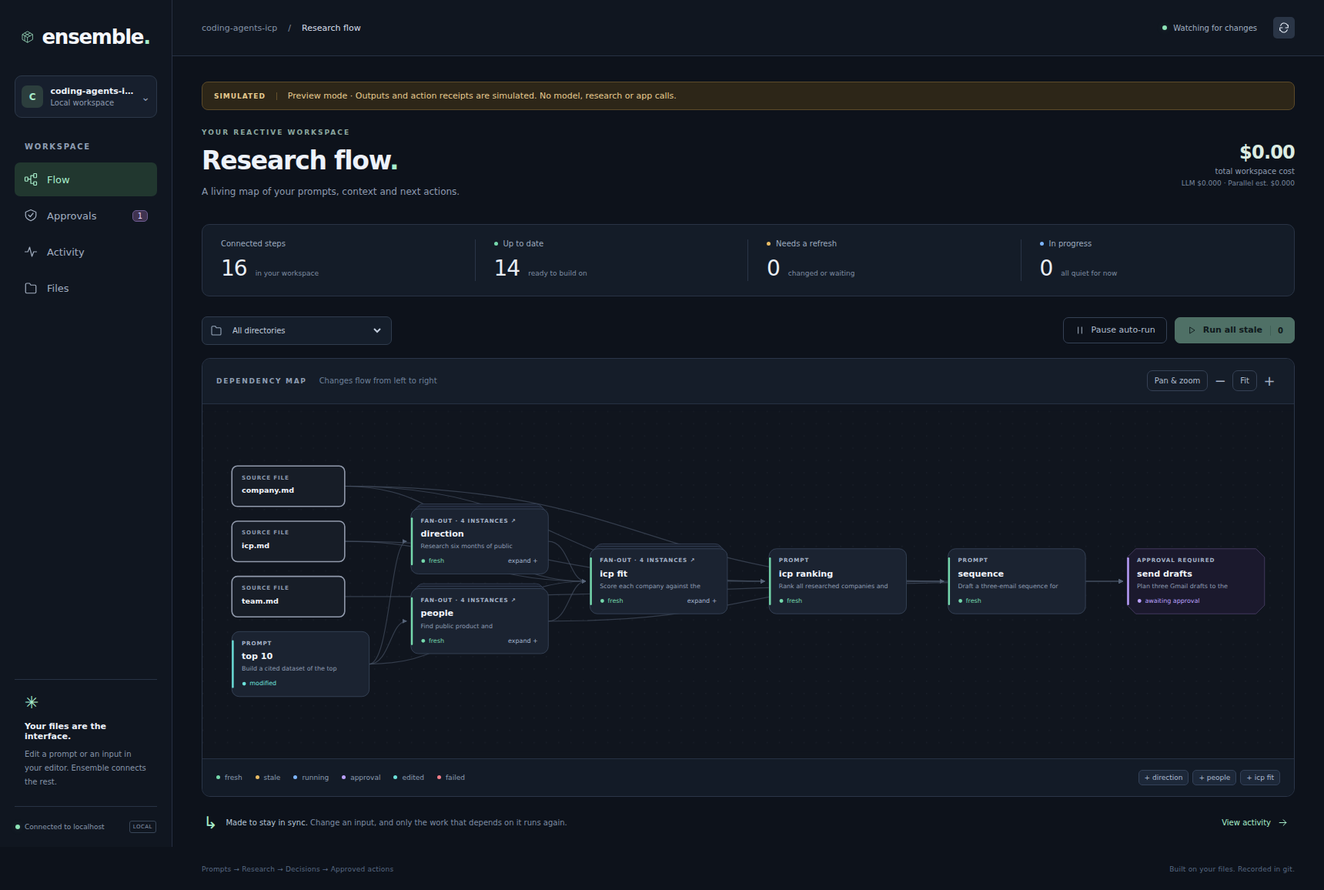
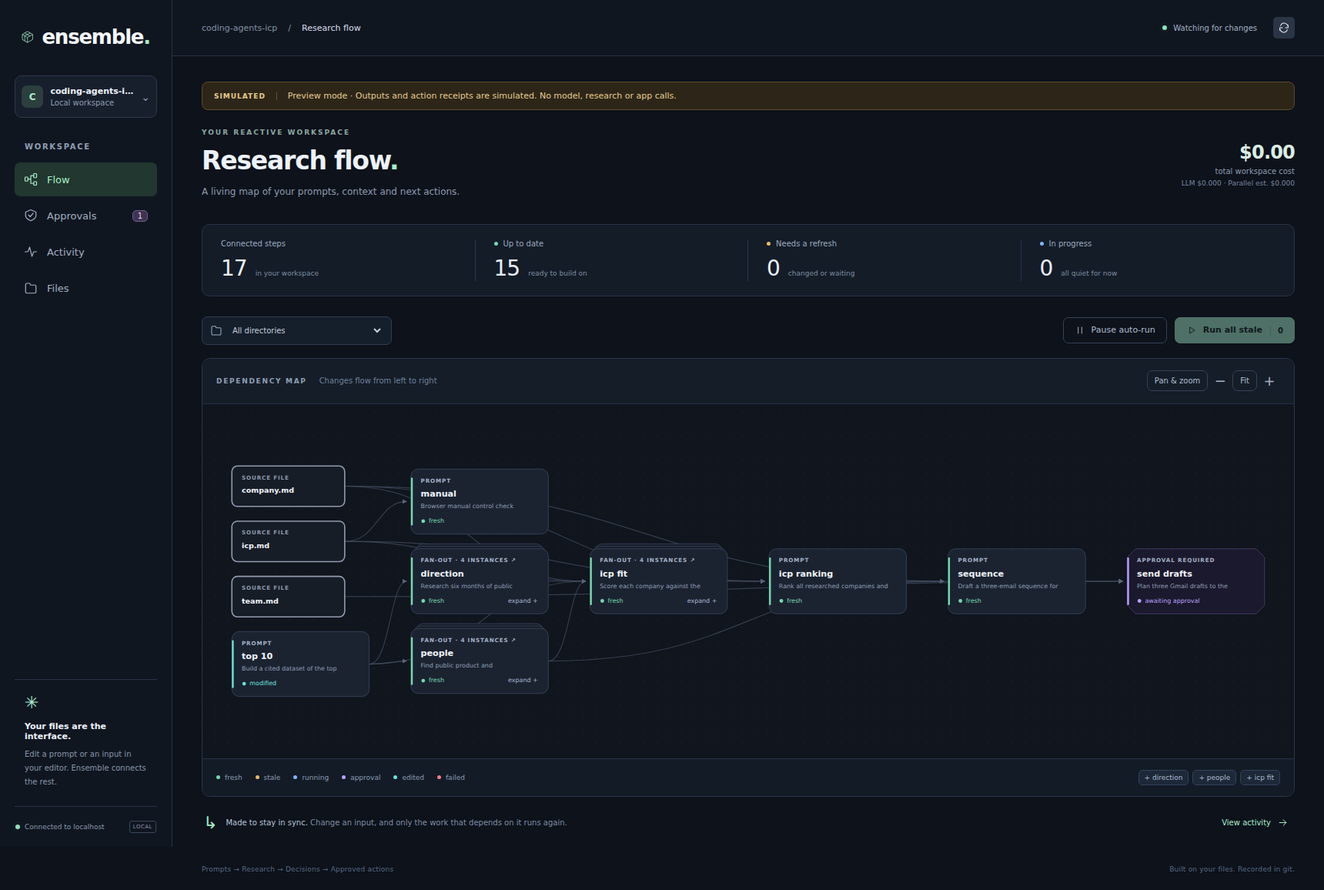
fix: complete clean-clone setup and workspace controls

Changed region(s): [[0.3081, 0.5294, 0.4006, 0.7785], [0.3698, 0.2803, 0.4006, 0.3114], [0.1541, 0.2803, 0.1849, 0.3114]]

diff --git a/ui/style.css b/ui/style.css
@@ -2,3 +2,5 @@
 :root{--surface:#151d29;--text:#edf2fa;--accent:#a7edca;--subtle:#101720}
 .button.selected{background:#213c32;color:#b8edce;border-color:#87c5a4}.chip-error{background:#3e2631;color:#f3adb9;border-color:#754452}.drawer .diff-add{color:#98ddb3;background:#19372b}.drawer .diff-remove{color:#ecadb6;background:#3e2631}.json-editor textarea{background:#0f1722!important;border-color:#40506a!important;color:#d8e4f5!important}.reject-form{background:#2b2029!important}.reject-form input{background:#151b28;color:#e4edf9;border-color:#764b58!important}.approval-card .chip{background:#302b46!important;color:#c6b2f4!important}.count-badge{background:#352d4b!important;color:#c7b1f5!important}.empty-orbit{background:#1d3329!important;color:#a7d6b8!important;border-color:#3d5a49!important}
 :root{font-family:Inter,ui-sans-serif,system-ui,-apple-system,BlinkMacSystemFont,"Segoe UI",sans-serif;color:#edf2fa;background:#0d121b;font-synthesis:none;font-weight:400;font-size:14px;--mint:#a7edca;--muted:#8e9bb0;--border:#293345;--panel:#141c28;--amber:#e9bc64;--purple:#bba1ff;--red:#f47e89;--blue:#7eb6ff}*{box-sizing:border-box}body{margin:0}button,input,select,textarea{font:inherit}button,a,select{touch-action:manipulation}button{cursor:pointer}button:disabled{cursor:not-allowed;opacity:.45}a{color:var(--mint);text-decoration:none}a:hover{text-decoration:underline}button:focus-visible,a:focus-visible,select:focus-visible,input:focus-visible,[tabindex]:focus-visible{outline:2px solid var(--mint);outline-offset:3px}button svg{flex-shrink:0}button{transition:background .15s,border-color .15s,opacity .15s}.app-shell{display:flex;min-height:100vh}.sidebar{width:224px;flex-shrink:0;background:#101620;border-right:1px solid #273042;display:flex;flex-direction:column;padding:32px 19px 18px;position:fixed;inset:0 auto 0 0;z-index:10}.brand{display:flex;gap:11px;align-items:center;color:#f4f7fb;font-size:26px;font-weight:680;letter-spacing:-1.2px;padding:0 9px}.brand:hover{text-decoration:none}.brand-dot{color:var(--mint)}.workspace-switch{display:flex;align-items:center;gap:9px;margin:34px 0 32px;padding:12px 8px;border:1px solid #2c3849;border-radius:9px;background:#171f2d}.workspace-avatar{width:29px;height:29px;display:grid;place-items:center;border-radius:7px;background:#2c3e3d;color:var(--mint);font-size:12px;font-weight:700}.workspace-switch div{min-width:0;display:flex;flex-direction:column;gap:3px}.workspace-switch strong{font-size:11px;max-width:124px;white-space:nowrap;overflow:hidden;text-overflow:ellipsis}.workspace-switch div>span{font-size:10px;color:var(--muted)}.workspace-chevron{margin-left:auto;color:var(--muted)}.nav-label,.eyebrow{font-size:10px;letter-spacing:1.7px;font-weight:650;color:#8f9eb3}.nav-label{padding:0 13px;margin-bottom:12px}.nav-item{background:none;border:0;border-radius:7px;width:100%;padding:13px 12px;margin:3px 0;display:flex;align-items:center;gap:12px;color:#a2aec0;font-size:13px;text-align:left}.nav-item:hover{background:#1b2635;color:#e6edf9}.nav-item.active{color:var(--mint);background:#21372f}.nav-count{margin-left:auto;border:1px solid #6b5b91;background:#403350;color:#e3d6ff;padding:1px 6px;border-radius:5px;font-size:10px}.sidebar-bottom{margin-top:auto;padding-top:40px}.workspace-note{padding:17px 13px 22px;border-top:1px solid #283344;border-bottom:1px solid #283344}.small-spark{color:var(--mint);font-size:22px}.workspace-note strong{display:block;margin:12px 0 8px;font-size:11px;font-weight:600}.workspace-note p{font-size:10px;line-height:1.8;color:#8795a9;margin:0}.connection{display:flex;align-items:center;gap:6px;font-size:9px;color:#8897ac;padding:18px 1px 0}.connection i,.watcher-state i{width:6px;height:6px;border-radius:50%;background:#bba46d}.connection i.connected,.watcher-state i{background:#8de3b6;box-shadow:0 0 9px #8de3b62b}.local-tag{margin-left:auto;font-size:7px;border:1px solid #394658;border-radius:3px;padding:3px 4px;letter-spacing:.5px}.main-shell{margin-left:224px;min-width:0;width:calc(100% - 224px);display:flex;flex-direction:column}.topbar{height:73px;border-bottom:1px solid #273144;display:flex;align-items:center;justify-content:space-between;padding:0 38px;background:#101620}.breadcrumb{display:flex;gap:14px;font-size:11px;color:#8391a6;align-items:center}.breadcrumb strong{font-weight:500;color:#d7dfeb}.topbar-right{display:flex;align-items:center;gap:21px}.watcher-state{display:flex;align-items:center;gap:8px;font-size:10px;color:#a2b0c2}.watcher-state.paused i{background:#e9bc64}.page-content{padding:33px 38px 15px;flex:1}.page-heading{display:flex;justify-content:space-between;gap:20px;align-items:center;margin:8px 0 30px}.page-heading .eyebrow{font-size:9px;letter-spacing:2px;color:#8ba79f}h1{font-size:33px;line-height:1.25;font-weight:600;letter-spacing:-1.2px;margin:11px 0 10px}.heading-dot{color:var(--mint)}.page-heading p{margin:0;color:var(--muted);font-size:12px;line-height:1.8}.heading-meta{text-align:right;display:flex;flex-direction:column;gap:5px;color:#8e9bb0;font-size:10px;flex-shrink:0}.cost-amount{font-size:24px;color:#dcece2;font-weight:550;letter-spacing:-.8px}.heading-meta small{font-size:9px;color:#77879e}.simulation-banner{display:flex;gap:14px;align-items:center;border:1px solid #5c4a29;border-radius:8px;padding:11px 15px;background:#2d2618;margin:0 0 24px;color:#e6ca8f;font-size:11px}.simulation-banner>span{font-size:9px;letter-spacing:1px;font-weight:700;border-right:1px solid #66512c;padding-right:14px}.simulation-banner p{margin:0}.stats-row{display:grid;grid-template-columns:repeat(4,1fr);border:1px solid var(--border);background:#141c28;border-radius:10px;padding:19px 0;margin-bottom:26px}.stat{padding:0 24px;border-right:1px solid #2a3547}.stat:last-child{border-right:0}.stat>span{font-size:10px;color:#9caabf;display:flex;align-items:center;gap:7px}.stat strong{display:flex;gap:11px;align-items:baseline;font-size:28px;font-weight:500;color:#e9eef6;margin-top:10px;letter-spacing:-1px}.stat small{font-size:9px;color:#7e8ca2;letter-spacing:0;font-weight:400}.dot{width:5px;height:5px;border-radius:50%;display:inline-block}.dot-green{background:#75d9ac}.dot-amber{background:#e9bc64}.dot-blue{background:#7eb6ff}.flow-toolbar{display:flex;align-items:center;justify-content:space-between;margin-bottom:17px;gap:15px}.directory-filter{border:1px solid #303c4e;border-radius:7px;display:flex;align-items:center;gap:9px;padding:0 10px;background:#151e2b;color:#99a9bd}.directory-filter select{color:#c3cede;background:transparent;border:0;outline:0;font-size:10px;height:35px;max-width:280px;padding-right:15px}.directory-filter option{background:#151e2b}.toolbar-actions{display:flex;gap:10px}.button{border:1px solid #354357;border-radius:7px;padding:9px 14px;background:#1d2939;color:#d4dfed;display:inline-flex;align-items:center;justify-content:center;gap:8px;font-size:11px;font-weight:500;line-height:1.3;text-decoration:none}.button:hover{background:#26364a;text-decoration:none}.button-primary{background:var(--mint);border-color:var(--mint);color:#13261e;font-weight:650}.button-primary:hover{background:#b8f3d7;border-color:#b8f3d7}.button-subtle{background:transparent;color:#b0bdcf;border-color:#354155}.button-subtle:hover{background:#1b2737}.button-small{font-size:10px;padding:6px 9px}.button-danger{background:#542b34;border-color:#925362;color:#ffd0d4}.button-count{border-left:1px solid #5d9e7c7d;padding-left:9px;margin-left:2px;font-size:10px}.icon-button{display:inline-flex;align-items:center;justify-content:center;border:0;background:none;color:#a5b2c6;width:28px;height:28px;border-radius:5px;font-size:18px;padding:4px}.icon-button:hover{background:#2a3546;color:#edf3fc}.graph-panel{border:1px solid #2b3649;border-radius:11px;background:#10151e;overflow:hidden}.graph-panel-top{display:flex;align-items:center;justify-content:space-between;gap:15px;padding:15px 18px;border-bottom:1px solid #263143;background:#151d29}.graph-panel-top>div:first-child{display:flex;align-items:center;gap:16px}.graph-panel-top .eyebrow{font-size:9px}.graph-hint{color:#6f819a;font-size:10px}.graph-controls{display:flex;gap:2px;align-items:center}.graph-canvas{overflow:auto;max-height:72vh;min-height:425px;scrollbar-width:thin;scrollbar-color:#344154 #10151e}.graph-svg{display:block;min-height:425px}.graph-node{cursor:pointer;outline:none}.graph-node:hover>rect:last-of-type,.graph-node:hover>path{stroke:#a3b9d7;stroke-width:1.7}.graph-node:focus-visible>rect,.graph-node:focus-visible>path{stroke:#a7edca;stroke-width:2}.graph-state-running,.graph-state-executing{animation:running-glow 2.4s ease-in-out infinite}.graph-state-stale{animation:stale-wave .7s ease-out}.graph-running-dot{animation:pulse 1.3s ease-in-out infinite}.graph-edge-active{stroke-dasharray:6 5;animation:edge-flow 1.2s linear infinite}.graph-footer{border-top:1px solid #263143;padding:14px 18px;background:#131b27;display:flex;align-items:center;justify-content:space-between;gap:15px;flex-wrap:wrap}.graph-legend{display:flex;gap:17px;flex-wrap:wrap}.graph-legend span{display:flex;align-items:center;gap:6px;font-size:9px;color:#8b9bb1}.graph-legend i{display:block;width:5px;height:5px;border-radius:50%}.group-controls{display:flex;gap:5px;flex-wrap:wrap}.group-toggle{background:#1d2839;border:1px solid #334158;border-radius:5px;padding:4px 7px;color:#adbbd1;font-size:9px}.group-toggle:hover{border-color:#88baa5;color:#c9efdb}.flow-bottom{display:flex;justify-content:space-between;align-items:center;margin-top:15px;padding:0 2px;gap:20px}.flow-bottom>div{display:flex;align-items:center;gap:11px}.flow-bottom p{font-size:10px;color:#7e8da4;line-height:1.7}.flow-bottom strong{font-weight:500;color:#b6c6d8}.text-button{border:0;background:none;color:var(--mint);font-size:10px;display:flex;align-items:center;gap:8px;white-space:nowrap}.app-footer{display:flex;justify-content:space-between;gap:15px;padding:22px 38px;color:#586982;font-size:9px;letter-spacing:.2px}.notice{border:1px solid #4b5264;background:#202a3b;border-radius:8px;padding:12px 15px;color:#b9c8dd;font-size:12px;line-height:1.7}.notice-error{border-color:#76404e;background:#301f2b;color:#f1bac4}.notice-simulated{border-color:#78633b;background:#312a1d;color:#ebcc89}.app-error{display:flex;justify-content:space-between;align-items:center;margin-bottom:20px}.app-error .icon-button{flex-shrink:0}.muted{color:var(--muted)}.mono{font-family:"SFMono-Regular",Consolas,"Liberation Mono",monospace}.empty-state{min-height:300px;display:flex;flex-direction:column;justify-content:center;align-items:center;text-align:center;padding:35px;color:#8fa1ba}.empty-state h3{font-weight:500;color:#d3deed;font-size:17px;margin:20px 0 9px}.empty-state p{color:#8294ad;font-size:12px;line-height:1.8;max-width:420px;margin:0}.loading-state{display:flex;align-items:center;flex-direction:column;justify-content:center;min-height:450px;color:#8d9db3}.loading-state strong{font-weight:500;color:#dbe7f7;margin:20px 0 0}.loading-state p{font-size:11px}.loading-ring{width:32px;height:32px;border:2px solid #294235;border-top-color:var(--mint);border-radius:50%;animation:spin 1s linear infinite}.activity-list{border:1px solid #2a3649;border-radius:10px;overflow:hidden;background:#141c28}.activity-row{display:flex;gap:17px;padding:22px 24px;border-bottom:1px solid #273447}.activity-row:last-child{border-bottom:0}.activity-icon{width:33px;height:33px;border:1px solid #3b554a;border-radius:9px;background:#1b2f28;color:#9ddcb9;display:grid;place-items:center;flex-shrink:0}.activity-error .activity-icon{background:#3b2733;border-color:#64404e;color:#e6a4b1}.activity-row>div:nth-child(2){flex:1;min-width:0}.activity-row strong{font-size:12px;color:#d7e2f0;font-weight:550}.activity-row p{color:#8b9db6;font-size:11px;margin:7px 0 0;line-height:1.7;overflow-wrap:anywhere}.activity-row time{font-size:10px;color:#71839e;white-space:nowrap}.activity-node{display:block;padding:0;margin-top:7px;border:0;background:none;color:#9fe0bd;font-size:10px;text-align:left;overflow-wrap:anywhere}.commit-label{font-size:9px;color:#90a7b4;font-family:monospace;display:inline-block;margin-top:9px;border:1px solid #354153;border-radius:4px;padding:3px 5px}.files-layout{display:grid;grid-template-columns:290px minmax(0,1fr);border:1px solid #2a364a;background:#141c28;border-radius:10px;overflow:hidden;min-height:580px}.file-list{border-right:1px solid #2a364a;max-height:75vh;overflow:auto;padding-bottom:12px}.file-search{display:flex;align-items:center;gap:9px;border-bottom:1px solid #2a364a;padding:15px}.file-search>span{color:#8fa3bb;font-size:20px}.file-search input{min-width:0;width:100%;background:none;border:0;color:#e0e9f8;outline:0;font-size:11px}.file-search input::placeholder{color:#6e829d}.file-list-count{font-size:9px;color:#6e819b;padding:13px 15px 8px;letter-spacing:.5px;text-transform:uppercase}.file-row{display:flex;gap:8px;align-items:center;width:100%;background:none;border:0;padding:10px 14px;color:#9bacbf;text-align:left;font-size:10px}.file-row svg{color:#75899d}.file-row>span{overflow:hidden;text-overflow:ellipsis;white-space:nowrap}.file-row:hover{background:#1d2a3d}.file-row.selected{background:#203a32;color:#b3ebce}.file-viewer{min-width:0}.file-viewer-header{display:flex;align-items:center;gap:10px;justify-content:space-between;border-bottom:1px solid #2a364a;padding:15px 20px;font-size:10px;color:#a6b6cb}.file-viewer-header>span{overflow-wrap:anywhere}.file-viewer .markdown{padding:24px 30px}.file-source{padding:24px 25px;font-family:"SFMono-Regular",Consolas,monospace;font-size:11px;line-height:1.9;color:#c4d1e4;white-space:pre-wrap;overflow-wrap:anywhere}.flow-card{display:flex;flex-direction:column;gap:9px;font-size:12px;text-align:left}.flow-card small{font-size:8px;color:#91a6c1;letter-spacing:1.1px}.flow-card strong{font-size:13px}.flow-card>span{font-size:9px}@keyframes edge-flow{to{stroke-dashoffset:-22}}@keyframes pulse{50%{opacity:.35}}@keyframes running-glow{50%{filter:drop-shadow(0 0 6px #659ce82b)}}@keyframes stale-wave{0%{filter:drop-shadow(0 0 10px #e9bc647a)}100%{filter:none}}@keyframes spin{to{transform:rotate(360deg)}}@media(min-width:1800px){.page-content{padding-left:50px;padding-right:50px}.topbar{padding-left:50px;padding-right:50px}.graph-canvas{min-height:510px}.graph-svg{min-height:510px}}@media(max-width:1200px){.sidebar{width:190px;padding-left:14px;padding-right:14px}.main-shell{margin-left:190px;width:calc(100% - 190px)}.brand{font-size:23px}.page-content{padding:27px 24px 10px}.topbar{padding:0 24px}.stat{padding:0 16px}.stat small{display:none}.graph-hint{display:none}.files-layout{grid-template-columns:240px minmax(0,1fr)}}@media(max-width:800px){.sidebar{width:66px;padding:23px 9px 15px}.brand{padding:0 6px}.brand>span,.workspace-switch,.nav-label,.nav-item>span,.sidebar-bottom{display:none}.nav-item{justify-content:center;padding:14px 8px;margin-top:10px}.nav-item .nav-count{display:none}.sidebar nav{margin-top:35px}.main-shell{margin-left:66px;width:calc(100% - 66px)}.topbar{height:61px;padding:0 18px}.breadcrumb{gap:8px;font-size:10px}.topbar-right{gap:8px}.watcher-state{font-size:0;gap:0}.watcher-state i{width:7px;height:7px}.page-content{padding:23px 17px 8px}h1{font-size:27px}.page-heading{align-items:flex-start;margin-bottom:24px;gap:10px}.heading-meta>small{display:none}.cost-amount{font-size:21px}.heading-meta{font-size:8px}.page-heading p{font-size:10px}.page-heading .eyebrow{font-size:8px;letter-spacing:1px}.stats-row{grid-template-columns:repeat(2,1fr);gap:22px 0;padding:18px 0}.stat:nth-child(2){border-right:0}.stat>span{font-size:9px}.stat strong{font-size:23px}.flow-toolbar{align-items:stretch;flex-direction:column;gap:10px}.toolbar-actions{justify-content:flex-end}.directory-filter{align-self:flex-start}.graph-footer{padding:12px}.graph-legend{gap:11px}.graph-legend span{font-size:8px}.graph-panel-top{padding:12px}.flow-bottom{align-items:flex-start;gap:10px}.flow-bottom p{font-size:9px}.flow-bottom .text-button{font-size:9px}.app-footer{padding:20px 17px;font-size:8px}.app-footer>span:last-child{display:none}.simulation-banner{align-items:flex-start;font-size:9px;gap:9px;padding:10px}.simulation-banner>span{font-size:8px;padding-right:9px}.files-layout{grid-template-columns:1fr}.file-list{max-height:230px;border-right:0;border-bottom:1px solid #2a364a}.activity-row{padding:17px 14px;gap:11px}.activity-row time{font-size:8px}.activity-row strong{font-size:11px}.activity-row p{font-size:10px}.graph-canvas{max-height:65vh}}@media(prefers-reduced-motion:reduce){*,*:before,*:after{animation:none!important;transition:none!important;scroll-behavior:auto!important}}
+
+.manual-run-hint{align-self:center;color:#aebdd1;font-size:10px;margin-right:5px}@media(max-width:800px){.toolbar-actions{flex-wrap:wrap}.manual-run-hint{width:100%;text-align:right}}

diff --git a/ui/App.tsx b/ui/App.tsx
@@ -1,5 +1,6 @@
 import React,{ useCallback,useEffect,useRef,useState } from 'react';
 import Graph from './Graph.js';
+import { automaticStaleNodes } from './state.js';
 import { api } from './api.js';
 import type { GraphData,GraphNode,WorkspaceEvent } from './types.js';
 import { NodeDrawer } from './Drawer.js';
@@ -30,6 +31,7 @@ export default function App() {
   const perform=async(action:()=>Promise<unknown>)=>{setBusy(true);setError('');try{await action();await refresh();}catch(error){setError(String(error instanceof Error?error.message:error));}finally{setBusy(false);}};
   const openFile=(file:string)=>{setSelectedFile(file);setSection('files');setSelected(null);};
   const nodes=graph?.nodes??[],stale=nodes.filter(node=>node.status==='stale'),fresh=nodes.filter(node=>node.status==='fresh'),running=nodes.filter(node=>['running','executing','queued'].includes(node.status)),approvals=graph?pendingApprovalNodes(graph):[];
+  const runnableStale=automaticStaleNodes(nodes),manualStale=stale.length-runnableStale.length;
   const directories=[...new Set(nodes.map(node=>node.path.split('/').slice(0,-1).join('/')).filter(Boolean))].sort();
   const visibleEvents=events.filter(event=>!['node.state','run.event'].includes(event.type)).reverse();
   const files=(graph?.files??[]).filter(file=>!file.split('/').some(part=>part==='.env'||part.startsWith('.env.')||['.git','.ensemble','.ensemble-git','.aws','.cline','.composio'].includes(part))).filter(file=>file.toLowerCase().includes(fileQuery.toLowerCase()));
@@ -40,7 +42,7 @@ export default function App() {
         <div className="page-heading"><div><div className="eyebrow">YOUR REACTIVE WORKSPACE</div><h1>{descriptions[section].title}<span className="heading-dot">.</span></h1><p>{descriptions[section].description}</p></div><div className="heading-meta"><span className="cost-amount">${((graph?.costs.llm??0)+(graph?.costs.parallel??0)).toFixed(2)}</span><span>total workspace cost</span><small>LLM ${(graph?.costs.llm??0).toFixed(3)} · Parallel est. ${(graph?.costs.parallel??0).toFixed(3)}</small></div></div>
         {error&&<div className="notice notice-error app-error" role="alert"><span>{error}</span><button className="icon-button" aria-label="Dismiss error" onClick={()=>setError('')}><Icon name="close" size={16}/></button></div>}
         {!graph?<div className="loading-state"><span className="loading-ring"/><strong>Connecting your workspace</strong><p>Reading the prompts, files and dependencies.</p></div>:section==='flow'?<><div className="stats-row"><div className="stat"><span>Connected steps</span><strong>{nodes.filter(node=>node.kind!=='fanout').length}<small>in your workspace</small></strong></div><div className="stat"><span><i className="dot dot-green"/>Up to date</span><strong>{fresh.length}<small>ready to build on</small></strong></div><div className="stat"><span><i className="dot dot-amber"/>Needs a refresh</span><strong>{stale.length}<small>changed or waiting</small></strong></div><div className="stat"><span><i className="dot dot-blue"/>In progress</span><strong>{running.length}<small>{running.length?'agents at work':'all quiet for now'}</small></strong></div></div>
-          <div className="flow-toolbar"><div className="directory-filter"><Icon name="files" size={16}/><select aria-label="Filter graph by directory" value={directory} onChange={event=>setDirectory(event.target.value)}><option value="">All directories</option>{directories.map(dir=><option key={dir} value={dir}>{dir}/</option>)}</select></div><div className="toolbar-actions"><button className="button button-subtle" disabled={busy} onClick={()=>void perform(()=>api(graph.paused?'/api/resume':'/api/pause',{method:'POST'}))}><Icon name={graph.paused?'play':'pause'} size={14}/>{graph.paused?'Resume auto-run':'Pause auto-run'}</button><button className="button button-primary" disabled={busy||!stale.length} onClick={()=>void perform(()=>api('/api/run',{body:{stale:true}}))}><Icon name="play" size={14}/>{busy?'Working…':'Run all stale'}<span className="button-count">{stale.length}</span></button></div></div>
+          <div className="flow-toolbar"><div className="directory-filter"><Icon name="files" size={16}/><select aria-label="Filter graph by directory" value={directory} onChange={event=>setDirectory(event.target.value)}><option value="">All directories</option>{directories.map(dir=><option key={dir} value={dir}>{dir}/</option>)}</select></div><div className="toolbar-actions">{manualStale>0&&<span className="manual-run-hint">{manualStale} manual {manualStale===1?'step':'steps'} · open to run</span>}<button className="button button-subtle" disabled={busy} onClick={()=>void perform(()=>api(graph.paused?'/api/resume':'/api/pause',{method:'POST'}))}><Icon name={graph.paused?'play':'pause'} size={14}/>{graph.paused?'Resume auto-run':'Pause auto-run'}</button><button className="button button-primary" disabled={busy||!runnableStale.length} onClick={()=>void perform(()=>api('/api/run',{body:{stale:true}}))}><Icon name="play" size={14}/>{busy?'Working…':'Run all stale'}<span className="button-count">{runnableStale.length}</span></button></div></div>
           <Graph data={graph} directory={directory} onSelect={setSelected} onFile={openFile} selectedId={selected?.id}/>
           <div className="flow-bottom"><div><span className="small-spark">↳</span><p><strong>Made to stay in sync.</strong> Change an input, and only the work that depends on it runs again.</p></div><button className="text-button" onClick={()=>setSection('activity')}>View activity <Icon name="arrow" size={15}/></button></div>
           {graph.warnings?.length?<div className="notice">{graph.warnings.join(' · ')}</div>:null}

diff --git a/ui/Graph.tsx b/ui/Graph.tsx
@@ -73,8 +73,8 @@ export default function Graph(props:NativeGraphProps) {
   const toggle=(id:string)=>setExpanded(previous=>{const next=new Set(previous);if(next.has(id))next.delete(id);else next.add(id);return next;});
   const Flow=flow?.ReactFlow,Background=flow?.Background,Controls=flow?.Controls;
   const groups=[...new Set(props.data.nodes.map(node=>node.instanceOf).filter((id):id is string=>!!id))];
-  return <div className="graph-panel"><div className="graph-panel-top"><div><span className="eyebrow">DEPENDENCY MAP</span><span className="graph-hint">Changes flow from left to right</span></div><div className="graph-controls">{flow&&<button className="button button-subtle button-small" onClick={()=>setEngine(engine==='map'?'interactive':'map')}>{engine==='map'?'Pan & zoom':'Overview'}</button>}<button className="icon-button" aria-label="Zoom out" onClick={()=>setZoom(value=>Math.max(.65,value-.15))}>−</button><button className="button button-subtle button-small" onClick={()=>setZoom(1)}>Fit</button><button className="icon-button" aria-label="Zoom in" onClick={()=>setZoom(value=>Math.min(2,value+.15))}>+</button></div></div>
-    <div className="graph-canvas">{engine==='interactive'&&Flow?<div style={{height:Math.max(500,layout.height*.8)}}><Flow fitView nodesDraggable nodesConnectable={false} nodes={layout.nodes.map(node=>({id:node.id,position:{x:node.x,y:node.y},data:{label:<div className="flow-card"><small>{node.kind==='source'?'SOURCE':node.kind.toUpperCase()}</small><strong>{node.label}</strong><span style={{color:stateColor[node.status]}}>{node.status}{node.count?' · '+node.count+' instances':''}</span></div>},style:{width:node.width,background:'#1b2331',color:'#f1f4fa',border:'1px solid '+stateColor[node.status],borderRadius:12,padding:12},sourcePosition:'right',targetPosition:'left'}))} edges={layout.edges.map((edge,index)=>({...edge,id:'edge'+index,animated:['running','stale'].includes(layout.nodes.find(node=>node.id===edge.target)?.status??''),style:{stroke:'#6b8d9d'}}))} onNodeClick={(_event,selected)=>{const node=layout.nodes.find(node=>node.id===selected.id);if(node?.groupId)toggle(node.groupId);else if(node?.sourcePath)props.onFile?.(node.sourcePath);else if(node?.original)props.onSelect?.(node.original);}}>{Background&&<Background color="#334052" gap={20}/>} {Controls&&<Controls/>}</Flow></div>:<NativeGraph {...props} expandedGroups={expanded} onToggleGroup={toggle} zoom={zoom}/>}</div>
+  return <div className="graph-panel"><div className="graph-panel-top"><div><span className="eyebrow">DEPENDENCY MAP</span><span className="graph-hint">Changes flow from left to right</span></div><div className="graph-controls">{flow&&<button className="button button-subtle button-small" onClick={()=>setEngine(engine==='map'?'interactive':'map')}>{engine==='map'?'Pan & zoom':'Overview'}</button>}{engine==='map'&&<><button className="icon-button" aria-label="Zoom out" onClick={()=>setZoom(value=>Math.max(.65,value-.15))}>−</button><button className="button button-subtle button-small" onClick={()=>setZoom(1)}>Fit</button><button className="icon-button" aria-label="Zoom in" onClick={()=>setZoom(value=>Math.min(2,value+.15))}>+</button></>}</div></div>
+    <div className="graph-canvas">{engine==='interactive'&&Flow?<div style={{height:Math.max(500,layout.height*.8)}}><Flow fitView nodesDraggable={false} nodesConnectable={false} nodes={layout.nodes.map(node=>({id:node.id,position:{x:node.x,y:node.y},data:{label:<div className="flow-card"><small>{node.kind==='source'?'SOURCE':node.kind.toUpperCase()}</small><strong>{node.label}</strong><span style={{color:stateColor[node.status]}}>{node.status}{node.count?' · '+node.count+' instances':''}</span></div>},style:{width:node.width,background:'#1b2331',color:'#f1f4fa',border:'1px solid '+stateColor[node.status],borderRadius:12,padding:12},sourcePosition:'right',targetPosition:'left'}))} edges={layout.edges.map((edge,index)=>({...edge,id:'edge'+index,animated:['running','stale'].includes(layout.nodes.find(node=>node.id===edge.target)?.status??''),style:{stroke:'#6b8d9d'}}))} onNodeClick={(_event,selected)=>{const node=layout.nodes.find(node=>node.id===selected.id);if(node?.groupId)toggle(node.groupId);else if(node?.sourcePath)props.onFile?.(node.sourcePath);else if(node?.original)props.onSelect?.(node.original);}}>{Background&&<Background color="#334052" gap={20}/>} {Controls&&<Controls/>}</Flow></div>:<NativeGraph {...props} expandedGroups={expanded} onToggleGroup={toggle} zoom={zoom}/>}</div>
     <div className="graph-footer"><div className="graph-legend">{(['fresh','stale','running','awaiting-approval','modified','failed'] as const).map(status=><span key={status}><i style={{background:stateColor[status]}}/>{status==='awaiting-approval'?'approval':status==='modified'?'edited':status}</span>)}</div>{groups.length>0&&<div className="group-controls">{groups.map(id=><button key={id} className="group-toggle" onClick={()=>toggle(id)}>{expanded.has(id)?'−':'+'} {basename(id).replace(/-/g,' ')}</button>)}</div>}</div>
   </div>;
 }

diff --git a/ui/Drawer.tsx b/ui/Drawer.tsx
@@ -16,6 +16,10 @@ interface DetailedNode extends NodeDetail {
 const message = (error: unknown) => error instanceof Error ? error.message : String(error);
 const price = (value?: number) => `$${(value ?? 0).toFixed(4)}`;
 
+export function promptRunRequest(node: GraphNode, replaceEditedOutputs = false): { targets: string[]; failed?: true; force?: true } {
+  return { targets: [node.id], ...(node.status === 'failed' ? { failed: true as const } : {}), ...(node.status === 'modified' && replaceEditedOutputs ? { force: true as const } : {}) };
+}
+
 function StreamEvent({ event }: { event: LogEvent }) {
   const payload = event.type === 'cline.event' && event.event && typeof event.event === 'object' ? event.event as Record<string, unknown> : event;
   const type = String(payload.type ?? event.type ?? 'event');
@@ -40,6 +44,7 @@ export function NodeDrawer({ node, onClose, onRefresh, onFile }: Props) {
   const streamEnd = useRef<HTMLDivElement>(null);
   const id = node?.id;
   useEffect(() => { setDetail(null); setTab('Prompt'); setOutput(''); setFileContent(''); setDiff(null); setError(''); setSelectedRun(null); setForce(false); }, [id]);
+  useEffect(() => { if (node?.status !== 'modified') setForce(false); }, [id, node?.status]);
   useEffect(() => {
     if (!id) return;
     const controller = new AbortController();
@@ -51,7 +56,7 @@ export function NodeDrawer({ node, onClose, onRefresh, onFile }: Props) {
   const activeRunId = selectedRun ?? current?.lastRun?.runId;
   const runIsActive = !!activeRunId && activeRunId === node?.lastRun?.runId && node?.lastRun?.status === 'running';
   useEffect(() => {
-    if (!activeRunId) { setLogs([]); return; }
+    if (!activeRunId || tab !== 'Live') { setLogs([]); return; }
     const controller = new AbortController();
     const load = async () => {
       try {
@@ -68,25 +73,25 @@ export function NodeDrawer({ node, onClose, onRefresh, onFile }: Props) {
     void load();
     const timer = runIsActive ? setInterval(() => void load(), 1000) : undefined;
     return () => { controller.abort(); if (timer) clearInterval(timer); };
-  }, [activeRunId, runIsActive, node?.status]);
+  }, [activeRunId, runIsActive, node?.status, tab]);
   useEffect(() => {
     if (!current) return;
     if (!current.outputs.includes(output)) setOutput(current.outputs.find(path => !path.endsWith('.receipt.json')) ?? current.outputs[0] ?? '');
   }, [id, current?.outputs.join('|')]);
   useEffect(() => {
-    if (!output || !id) return;
+    if (!output || !id || tab !== 'Outputs') return;
     const controller = new AbortController();
     setFileContent(''); setDiff(null); setOutputError('');
     api<{ content: string }>(`/api/files?path=${encodeURIComponent(output)}`, { signal: controller.signal }).then(file => setFileContent(file.content)).catch(error => { if (!controller.signal.aborted) setOutputError(message(error)); });
     api<Diff>(`${nodePath(id, '/diff')}?path=${encodeURIComponent(output)}`, { signal: controller.signal }).then(setDiff).catch(() => {});
     return () => controller.abort();
-  }, [id, output, node?.lastRun?.runId, node?.status, revision]);
+  }, [id, output, node?.lastRun?.runId, node?.status, revision, tab]);
 
   useEffect(() => { if (tab === 'Live' && follow) streamEnd.current?.scrollIntoView({ block: 'nearest', behavior: 'smooth' }); }, [logs.length, tab, follow]);
 
   if (!node || !current) return null;
   const act = async (callback: () => Promise<unknown>) => { setBusy(true); setError(''); try { await callback(); setRevision(value => value + 1); onRefresh(); } catch (error) { setError(message(error)); } finally { setBusy(false); } };
-  const run = () => void act(() => node.kind === 'action' ? api(`/api/actions/${encodeURIComponent(node.id)}/plan`, { method: 'POST', body: {} }) : api('/api/run', { method: 'POST', body: { targets: [node.id], ...(force ? { force: true } : {}) } }));
+  const run = () => void act(() => node.kind === 'action' ? api(`/api/actions/${encodeURIComponent(node.id)}/plan`, { method: 'POST', body: {} }) : api('/api/run', { method: 'POST', body: promptRunRequest(node, force) }));
   const isRunning = node.status === 'running' || node.lastRun?.status === 'running';
   const runs = selectedDetail?.runs ?? [];
   const baseline = runs.find(run => run.status === 'completed')?.inputs ?? current.lastRun?.inputs ?? {};

diff --git a/test/example.test.ts b/test/example.test.ts
@@ -4,6 +4,8 @@ import path from 'node:path';
 import { afterEach, describe, expect, it } from 'vitest';
 import { loadConfig } from '../src/config.js';
 import { buildGraph } from '../src/graph/build.js';
+import type { ComposioBackend } from '../src/integrations/composio/backend.js';
+import { makeComposioTools } from '../src/runner/tools/composio.js';
 
 const example = path.resolve('examples/coding-agents-icp');
 const temporary: string[] = [];
@@ -58,5 +60,43 @@ describe('shipped coding-agent workspace', () => {
     }
     expect(changed.nodes.find(node => node.id === fit.id)!.fingerprint).not.toBe(before.get(fit.id));
     expect(changed.nodes.find(node => node.id === ranking.id)!.fingerprint).not.toBe(before.get(ranking.id));
+  });
+
+  it('exposes the published Linear list lookups without exposing any planning writes', async () => {
+    const config = await loadConfig(example), graph = await buildGraph(example, config);
+    const action = graph.nodes.find(node => node.kind === 'action')!;
+    const calls: { slug: string; args: Record<string, unknown> }[] = [];
+    // Published CLI schemas use these pagination inputs and omit readonly tags.
+    // Keep this fixture independent of any developer's private CLI cache/account.
+    const paginationSchema = { type: 'object', properties: {
+      first: { type: 'integer', default: 50, minimum: 1, maximum: 250 },
+      after: { type: 'string' },
+    } };
+    const backend: ComposioBackend = {
+      async getToolSchema(slug) { return { slug, description: slug, tags: [], inputSchema:
+        ['LINEAR_LIST_LINEAR_TEAMS', 'LINEAR_LIST_LINEAR_USERS'].includes(slug) ? paginationSchema : { type: 'object' } }; },
+      async searchTools() { return []; },
+      async execute(slug, args) {
+        if (!['LINEAR_LIST_LINEAR_TEAMS', 'LINEAR_LIST_LINEAR_USERS'].includes(slug)) throw new Error('A write escaped the planning bridge');
+        calls.push({ slug, args });
+        return { ok: true, data: slug === 'LINEAR_LIST_LINEAR_TEAMS'
+          ? { teams: [{ id: 'own-team', identifier: 'GTM' }], page_info: { hasNextPage: false } }
+          : { users: [], page_info: { hasNextPage: false } } };
+      },
+      async connect(): Promise<never> { throw new Error('This regression must never connect accounts'); },
+      async connections() { return []; },
+    };
+    const tools = await makeComposioTools(action, { root: example, config, runId: 'run_example_readonly', signal: new AbortController().signal, emit() {} }, backend);
+    expect(tools.map(tool => tool.name)).toEqual(['linear_list_linear_teams', 'linear_list_linear_users', 'composio_search_tools']);
+    const invoke = (name: string, args: Record<string, unknown>) => (tools.find(tool => tool.name === name) as unknown as {
+      execute(input: Record<string, unknown>, context: object): Promise<unknown>;
+    }).execute(args, {});
+    expect(await invoke('linear_list_linear_teams', { first: 1 })).toMatchObject({ teams: [{ identifier: 'GTM' }] });
+    await invoke('linear_list_linear_users', { first: 1 });
+    await expect(invoke('linear_list_linear_teams', { first: 0 })).rejects.toThrow();
+    expect(calls).toEqual([
+      { slug: 'LINEAR_LIST_LINEAR_TEAMS', args: { first: 1 } },
+      { slug: 'LINEAR_LIST_LINEAR_USERS', args: { first: 1 } },
+    ]);
   });
 });

diff --git a/test/ui-components.test.tsx b/test/ui-components.test.tsx
@@ -6,7 +6,8 @@ import { frontmatterSchema } from '../src/workspace/frontmatter.js';
 import type { GraphNode } from '../ui/types.js';
 import { Markdown, markdownFileTarget } from '../ui/Markdown.js';
 import { PlanCards, ReceiptView, ReviewControls, approvalBlockReason, pendingApprovalNodes, receiptLinks } from '../ui/Approvals.js';
-import { UnifiedDiff } from '../ui/Drawer.js';
+import { UnifiedDiff, promptRunRequest } from '../ui/Drawer.js';
+import { automaticStaleNodes } from '../ui/state.js';
 
 const node: GraphNode = {
   id: 'outreach', path: 'outreach.action.md', kind: 'action', status: 'awaiting-approval',
@@ -25,6 +26,18 @@ const receipt: ExecutionReceipt = {
 };
 
 describe('UI review and document safety', () => {
+  it('retries failed prompts and confines overwrite permission to the currently edited node', () => {
+    expect(promptRunRequest({ ...node, kind: 'prompt', status: 'failed' })).toEqual({ targets: ['outreach'], failed: true });
+    expect(promptRunRequest({ ...node, kind: 'prompt', status: 'modified' }, true)).toEqual({ targets: ['outreach'], force: true });
+    expect(promptRunRequest({ ...node, kind: 'prompt', status: 'fresh' }, true)).toEqual({ targets: ['outreach'] });
+    expect(promptRunRequest({ ...node, kind: 'prompt', status: 'modified' }, false)).toEqual({ targets: ['outreach'] });
+  });
+  it('keeps manual prompts and actions out of the run-all-stale toolbar action', () => {
+    const auto = { ...node, id: 'auto', kind: 'prompt' as const, status: 'stale' as const };
+    const manual = { ...auto, id: 'manual', fm: { ...auto.fm, mode: 'manual' as const } };
+    const action = { ...node, id: 'manual-action', status: 'stale' as const, fm: { ...node.fm, plan: 'manual' as const } };
+    expect(automaticStaleNodes([auto, manual, action])).toEqual([auto]);
+  });
   it('renders full email content as escaped text, not active HTML', () => {
     const html = renderToStaticMarkup(<PlanCards plan={plan} />);
     expect(html).toContain('operator@gmail.com');

diff --git a/test/scheduler.test.ts b/test/scheduler.test.ts
@@ -18,4 +18,6 @@ describe('scheduler',()=>{
  it('respects concurrency cap',async()=>{const f=await fixture();for(let i=0;i<5;i++)await prompt(f.root,'p'+i,[],['p'+i+'.md']);const r=new FakeRunner(async(n,c)=>{await new Promise(resolve=>setTimeout(resolve,10));await atomicWrite(path.join(c.root,n.outputs[0]),n.id);return {summary:'ok'};});await new Scheduler(f.root,f.config,f.store,r).run();expect(r.maxActive).toBe(2);});
  it('holds fanout expansion until its exact source is approved',async()=>{const f=await fixture();await writeFile(path.join(f.root,'items.json'),JSON.stringify(['a','b','c','d'].map(name=>({name}))));await prompt(f.root,'each',[],['out/{{item._key}}.md'],'foreach: items.json\n');const r=new FakeRunner(),s=new Scheduler(f.root,f.config,f.store,r);await s.run();expect(r.runs).toEqual([]);expect(s.graph.nodes[0].status).toBe('awaiting-approval');await s.approveFanout('each');await s.run();expect(r.runs).toHaveLength(4);});
  it('manual nodes need explicit user run and generated context writes do not rerun',async()=>{const f=await fixture();await prompt(f.root,'a',[],['a.md'],'mode: manual\n');const r=new FakeRunner(),s=new Scheduler(f.root,f.config,f.store,r);await s.run({automatic:true});expect(r.runs).toEqual([]);await s.run({targets:['a']});await writeFile(path.join(f.root,'AGENTS.md'),'context update');await s.run({automatic:true});expect(r.runs).toHaveLength(1);});
+ it('does not call a runner after abort during the input snapshot',async()=>{const f=await fixture();await prompt(f.root,'a',[],['a.md']);const runner=new FakeRunner(),scheduler=new Scheduler(f.root,f.config,f.store,runner);scheduler.beforeRun=async(_node,meta)=>{await scheduler.abort(meta.runId);};await scheduler.run();expect(runner.runs).toEqual([]);expect(scheduler.graph.nodes[0].status).toBe('failed');expect(f.store.data.nodes.a.lastRun?.status).toBe('failed');});
+
 });

diff --git a/test/simulation.test.ts b/test/simulation.test.ts
@@ -1,0 +1,19 @@
+import {afterEach,expect,it} from 'vitest';
+import {mkdtemp,readFile,rm,writeFile} from 'node:fs/promises';
+import path from 'node:path';
+import os from 'node:os';
+import {configSchema} from '../src/config.js';
+import {buildGraph} from '../src/graph/build.js';
+import {SimulationRunner} from '../src/runner/SimulationRunner.js';
+const roots:string[]=[];
+afterEach(async()=>{await Promise.all(roots.splice(0).map(root=>rm(root,{recursive:true,force:true})));});
+it.each(['before','during'] as const)('preserves an existing output when simulation is aborted %s its delay',async timing=>{
+ const root=await mkdtemp(path.join(os.tmpdir(),'ensemble-simulation-abort-'));roots.push(root);
+ await writeFile(path.join(root,'work.prompt.md'),'---\noutputs: [output.md]\n---\nWrite output.');
+ await writeFile(path.join(root,'output.md'),'Existing user content');
+ const config=configSchema.parse({}),node=(await buildGraph(root,config)).nodes[0],controller=new AbortController();
+ if(timing==='before')controller.abort(new Error('test interruption'));
+ const task=new SimulationRunner().run(node,{root,config,runId:'run_abort_test',signal:controller.signal,emit:()=>{}});
+ const timer=timing==='during'?setTimeout(()=>controller.abort(new Error('test interruption')),10):undefined;
+ try{await expect(task).rejects.toThrow();expect(await readFile(path.join(root,'output.md'),'utf8')).toBe('Existing user content');}finally{clearTimeout(timer);}
+});

diff --git a/ui/Approvals.tsx b/ui/Approvals.tsx
@@ -87,7 +87,7 @@ function ActionReviewPanel({ node, forcedSimulation, onRefresh }: { node: GraphN
     const controller = new AbortController();
     api<ActionReview>(actionPath(node.id), { signal: controller.signal }).then(value => { setReview(value); setError(''); }).catch(error => { if (!controller.signal.aborted) setError(errorMessage(error)); });
     return () => controller.abort();
-  }, [node.id, node.fingerprint, node.lastRun?.runId, node.status, node.approval?.execution_id]);
+  }, [node.id, node.fingerprint, node.lastRun?.runId, node.status, node.approval?.execution_id, editing]);
   const perform = async (callback: () => Promise<unknown>) => { setBusy(true); setError(''); try { await callback(); onRefresh(); } catch (error) { setError(errorMessage(error)); } finally { setBusy(false); } };
   const approve = (dryRun: boolean) => { if (!review || editing) return; void perform(async () => { await api(actionPath(node.id, '/approve'), { method: 'POST', body: { dryRun, expectedPlanHash: review.sha256 } }); setReview(await api<ActionReview>(actionPath(node.id))); }); };
   const save = () => { if (!review) return; void perform(async () => { const plan: unknown = JSON.parse(draft); const saved = await api<ActionReview>(actionPath(node.id, '/plan'), { method: 'PUT', body: { plan, expectedPlanHash: review.sha256 } }); setReview(saved); setEditing(false); }); };

diff --git a/src/runner/SimulationRunner.ts b/src/runner/SimulationRunner.ts
@@ -1,4 +1,5 @@
 import path from 'node:path';
+import {setTimeout as delay} from 'node:timers/promises';
 import type {Node} from '../types.js';
 import type {Runner,RunContext} from './Runner.js';
 import {atomicWrite,requiredOutputs} from '../util.js';
@@ -6,8 +7,10 @@ import {stringifyCSV} from '../workspace/csv.js';
 /** Explicit, cost-free preview. Production runs always use ClineRunner. */
 export class SimulationRunner implements Runner {
  async run(node:Node,ctx:RunContext){
+  ctx.signal.throwIfAborted();
   ctx.emit({type:'simulation',message:'SIMULATED agent output — no model, research or Composio call'});
-  await new Promise<void>((resolve,reject)=>{const timer=setTimeout(resolve,80);ctx.signal.addEventListener('abort',()=>{clearTimeout(timer);reject(new Error('interrupted'));},{once:true});});
+  await delay(80,undefined,{signal:ctx.signal});
+  ctx.signal.throwIfAborted();
   const summary='SIMULATED: '+(node.fm.description??node.id);
   if(node.kind==='action'){
    const recipient=String(ctx.config.vars.demo_recipient??'you@example.com');

diff --git a/src/graph/scheduler.ts b/src/graph/scheduler.ts
@@ -34,6 +34,7 @@ export class Scheduler {
   this.bus.emit('run.started',{runId,node:node.id});await this.store.save();
   try{
    await this.beforeRun?.(node,meta);await atomicWrite(path.join(dir,'prompt.md'),node.body);
+   controller.signal.throwIfAborted();
    const outcome=await this.runner.run(node,{root:this.root,config:this.config,runId,signal:controller.signal,noCache:options.noCache,previous,emit});
    if(controller.signal.aborted)throw new Error('interrupted');
    const outputs=Object.fromEntries(await Promise.all(requiredOutputs(node).map(async p=>[p,await fileHash(path.join(this.root,p))])));if(Object.values(outputs).includes('missing'))throw new Error('Runner did not produce all required outputs');

diff --git a/ui/state.ts b/ui/state.ts
@@ -1,0 +1,5 @@
+import type { GraphNode } from './types.js';
+/** Manual steps need an explicit node selection, matching scheduler policy. */
+export function automaticStaleNodes(nodes:GraphNode[]):GraphNode[] {
+  return nodes.filter(node=>node.status==='stale'&&node.kind!=='fanout'&&(node.kind==='action'?node.fm.plan!=='manual':node.fm.mode!=='manual'));
+}
